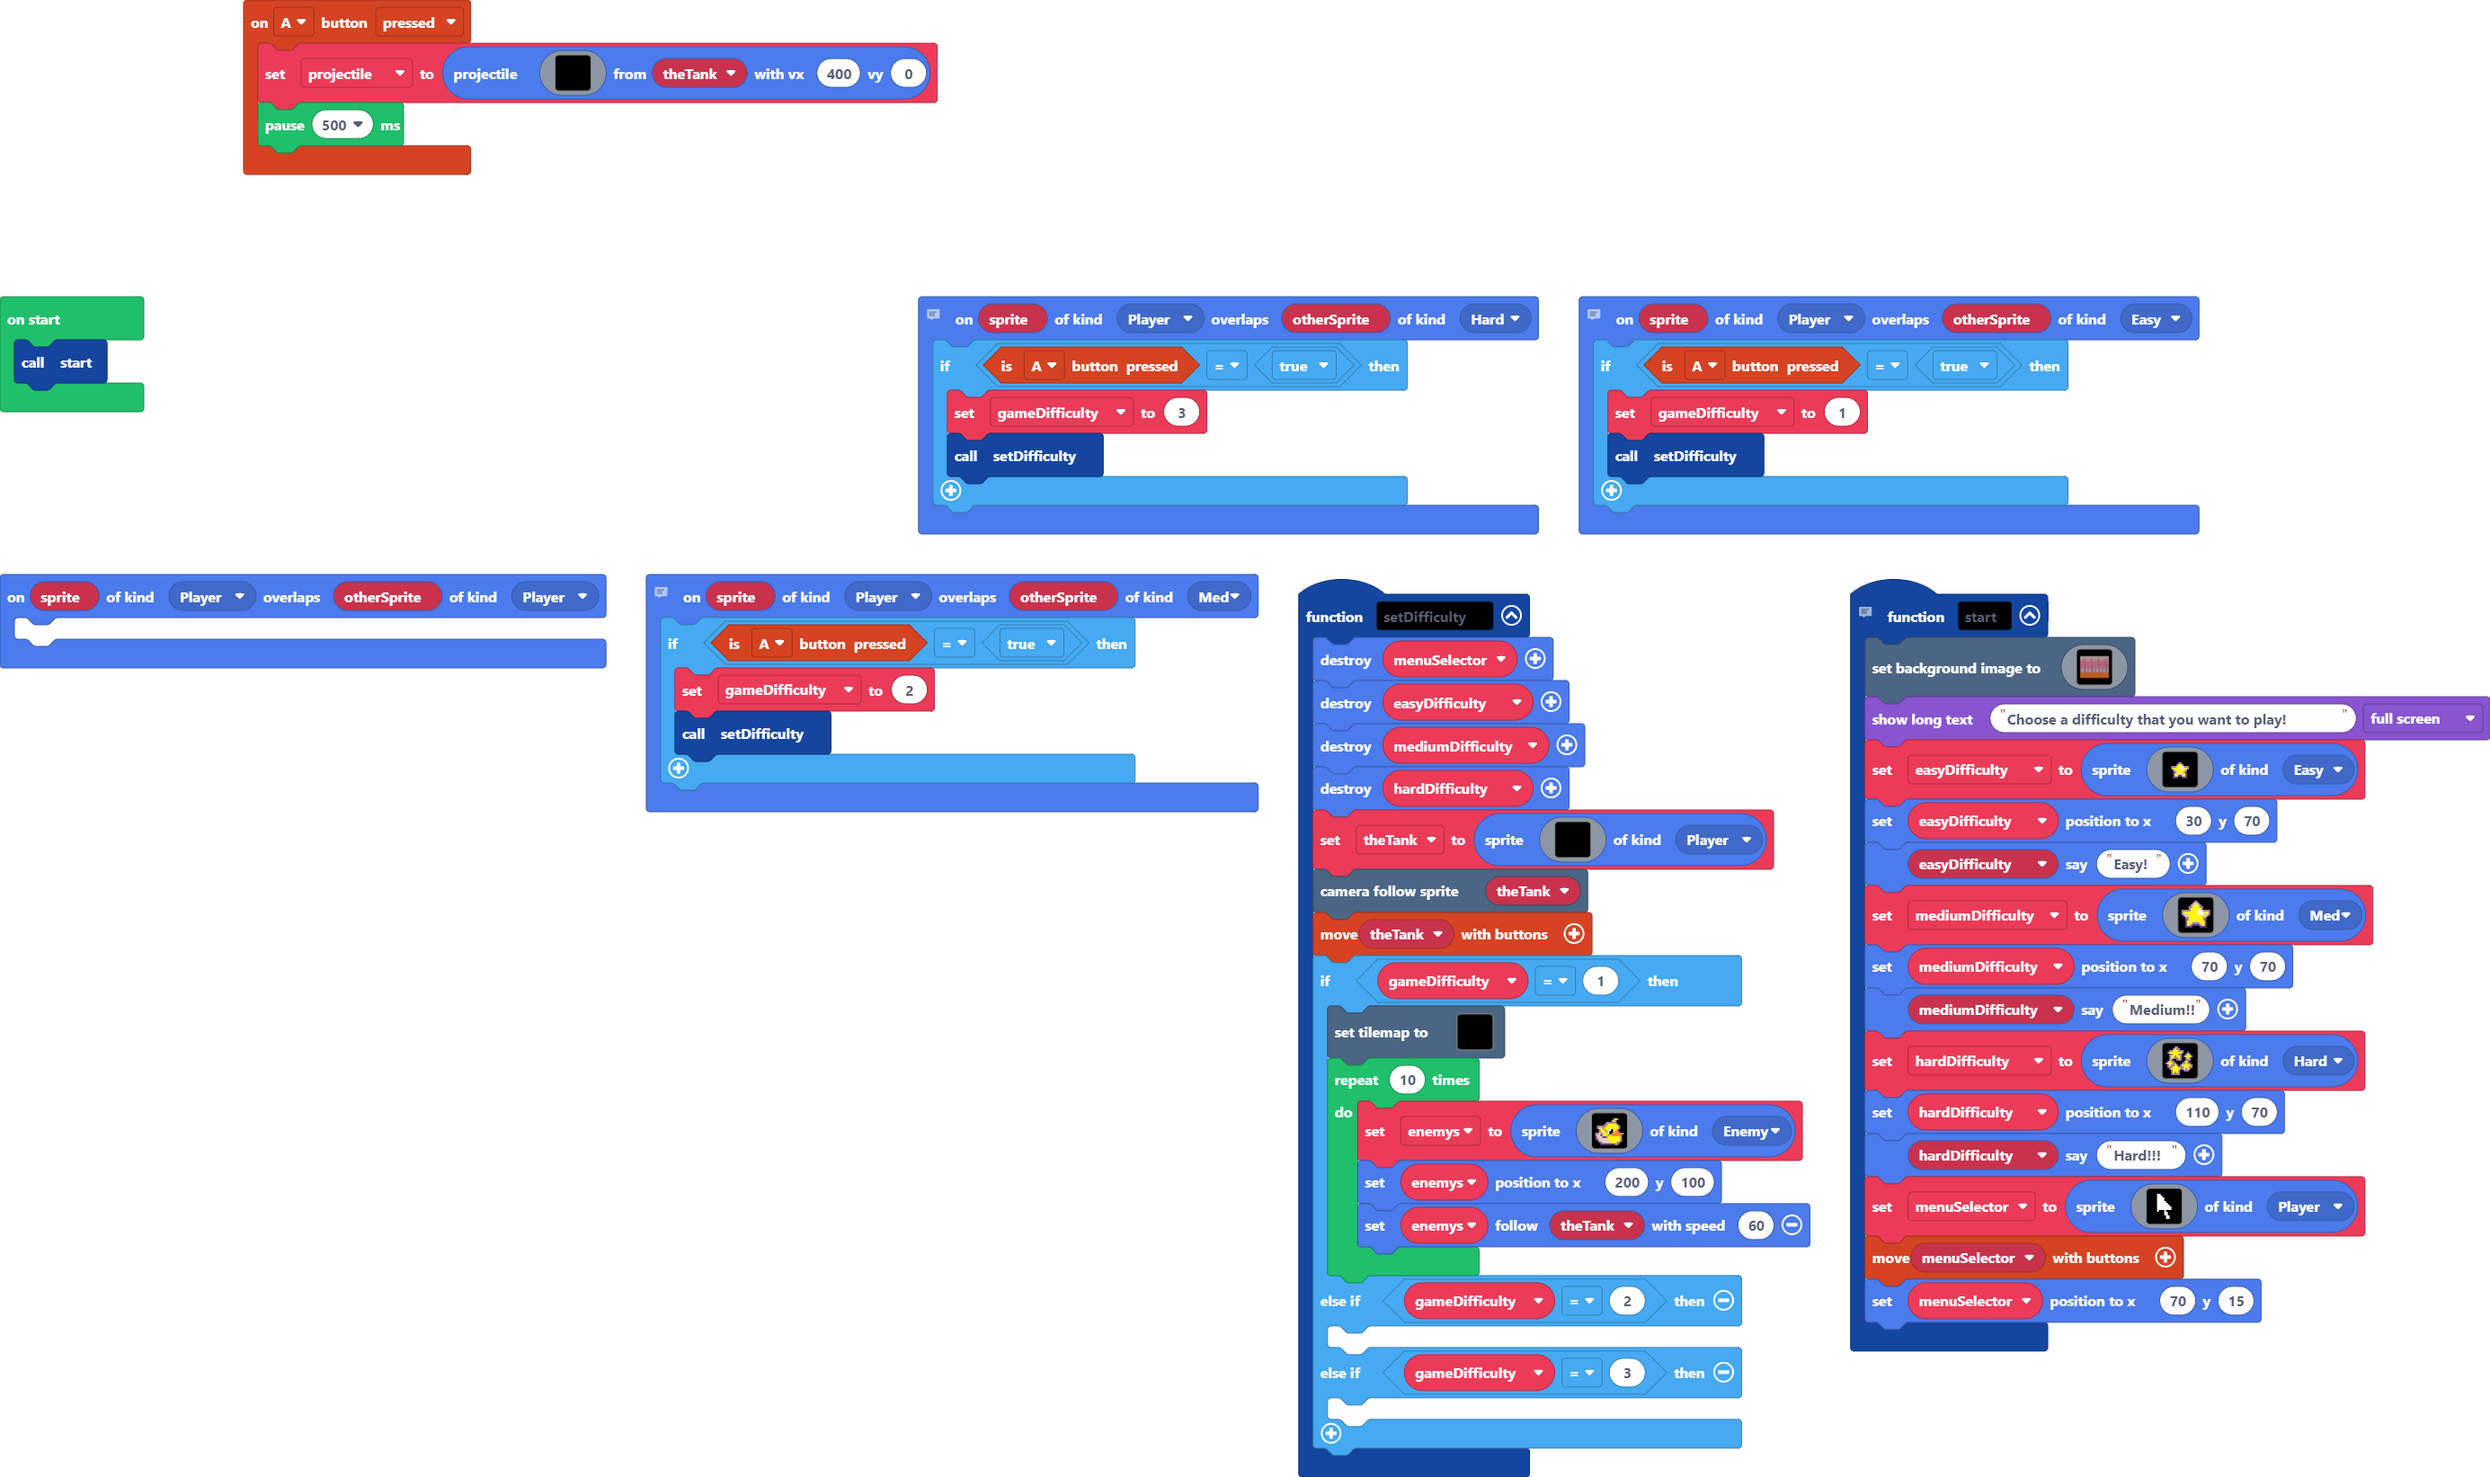
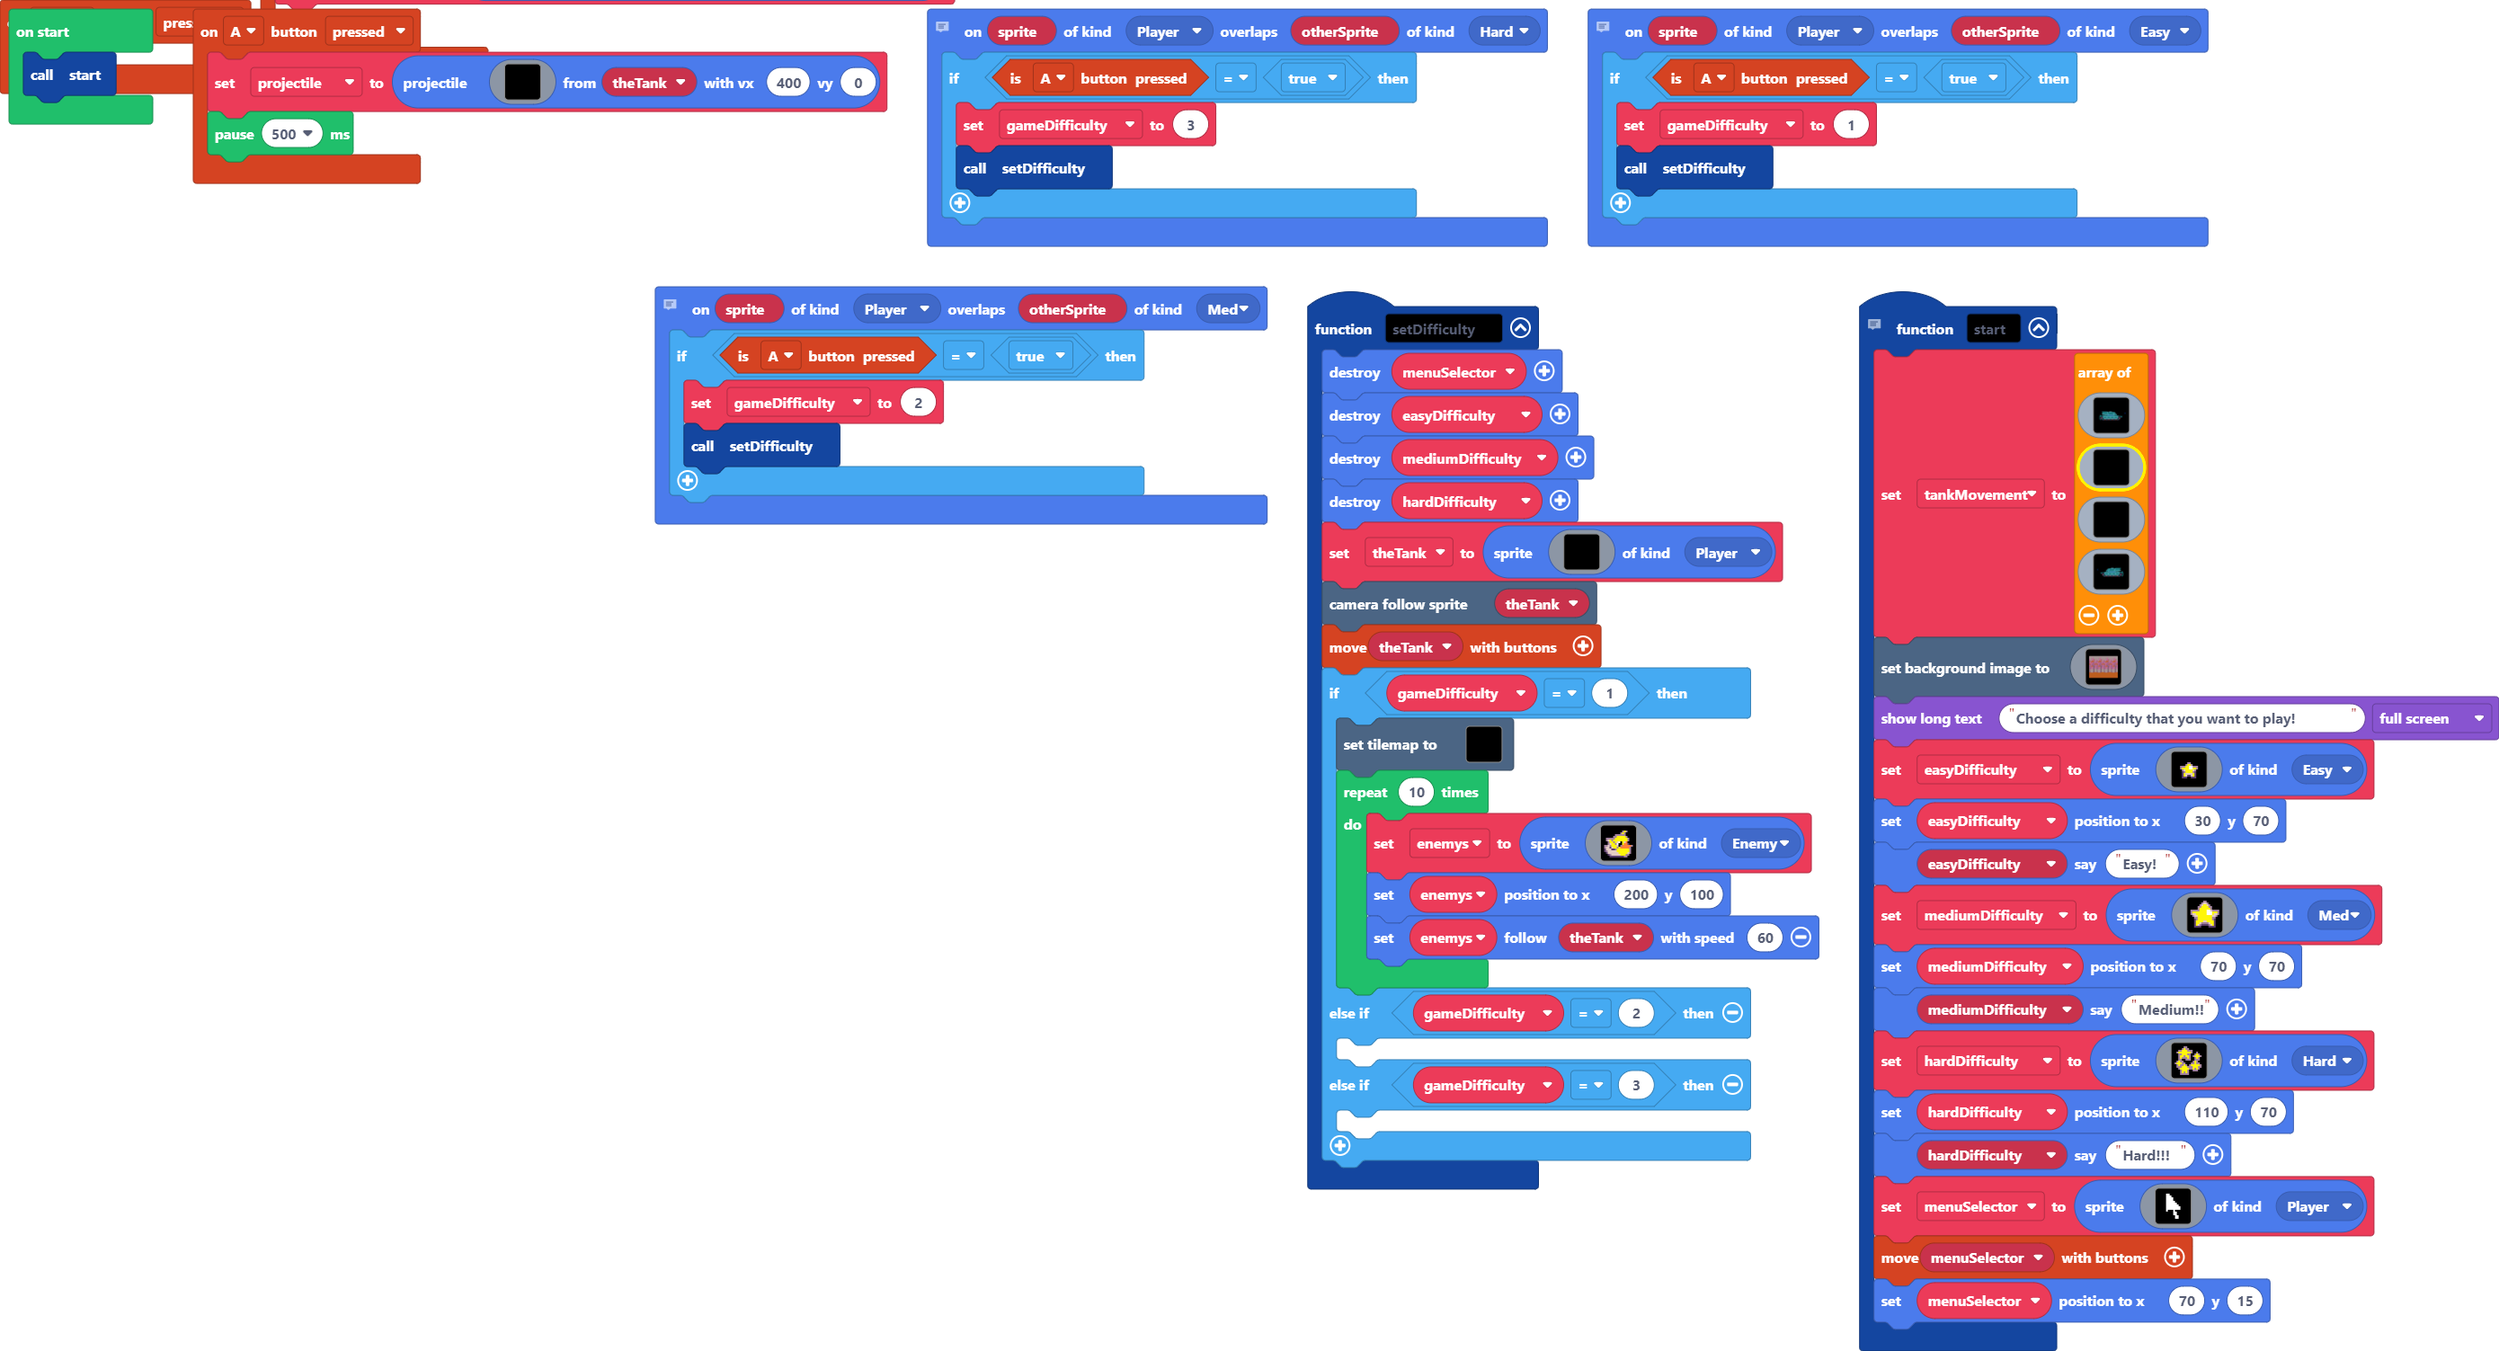
Update main.blocks, main.ts

diff --git a/main.ts b/main.ts
@@ -40,6 +40,9 @@ controller.A.onEvent(ControllerButtonEvent.Pressed, function () {
         `, theTank, 400, 0)
     pause(500)
 })
+controller.left.onEvent(ControllerButtonEvent.Pressed, function () {
+	
+})
 function setDifficulty () {
     menuSelector.destroy()
     easyDifficulty.destroy()
@@ -95,11 +98,114 @@ function setDifficulty () {
     	
     }
 }
-sprites.onOverlap(SpriteKind.Player, SpriteKind.Player, function (sprite, otherSprite) {
-	
-})
 // This function creates the start menu. It adds all of the difficulty choices that a player would be able to interact with to chose the difficulty they want to play. It makes the difficulty's as their own "kind" of category. It also makes the difficulty sprites say which difficulty they are.
 function start () {
+    tankMovement = [
+    img`
+        ................................................................
+        ................................................................
+        ................................................................
+        ................................................................
+        ................................................................
+        ................................................................
+        ................................................................
+        ...............................f................................
+        ...........6666666666666...999999...............................
+        ...........f666666666669666666666666666.........................
+        ...........f6666666666696666666666669669.................ffff.8.
+        ...........f66666666666966666666666696669fffffffffffffffffffff8f
+        ...........f666666666666966666666666696669ffffffffffffffffffff8f
+        ...........99999966666669666666666666966669.....................
+        .................999996669666666666666966669....................
+        .......6ffffff6.......9999999999999999966666....................
+        .......66ffff6666666...88888888888888...........................
+        .......66666666666666666666666666666666666666666................
+        ......66666666999999999999999999999999999999999666666666........
+        ......66ffffff966666669666666696666666966666669ffffff66.........
+        ......6ffacecc966666669666666696666666966666669ccecaff6.........
+        ......6fecacf69666666696666666966666669666666696fcacef..........
+        ......6ffebc6f966666669666666696666666966666669f6cbeff..........
+        ......66febc6ff9999999999999999999999999999999ff6cbef...........
+        .......6ffbc6fff6cbc6fff6cbc6fff6cbc6fff6cbc6fff6cbff...........
+        .......66ffcf666fcecf666fcecf666fcecf666fcecf666fcff............
+        ..........ffccccceeeccccceeeccccceeeccccceeecccccff.............
+        ...........fffffffffffffffffffffffffffffffffffffff..............
+        ................................................................
+        ................................................................
+        ................................................................
+        ................................................................
+        `,
+    img`
+        . . . . . . . . . . . . . . . . 
+        . . . . . . . . . . . . . . . . 
+        . . . . . . . . . . . . . . . . 
+        . . . . . . . . . . . . . . . . 
+        . . . . . . . . . . . . . . . . 
+        . . . . . . . . . . . . . . . . 
+        . . . . . . . . . . . . . . . . 
+        . . . . . . . . . . . . . . . . 
+        . . . . . . . . . . . . . . . . 
+        . . . . . . . . . . . . . . . . 
+        . . . . . . . . . . . . . . . . 
+        . . . . . . . . . . . . . . . . 
+        . . . . . . . . . . . . . . . . 
+        . . . . . . . . . . . . . . . . 
+        . . . . . . . . . . . . . . . . 
+        . . . . . . . . . . . . . . . . 
+        `,
+    img`
+        . . . . . . . . . . . . . . . . 
+        . . . . . . . . . . . . . . . . 
+        . . . . . . . . . . . . . . . . 
+        . . . . . . . . . . . . . . . . 
+        . . . . . . . . . . . . . . . . 
+        . . . . . . . . . . . . . . . . 
+        . . . . . . . . . . . . . . . . 
+        . . . . . . . . . . . . . . . . 
+        . . . . . . . . . . . . . . . . 
+        . . . . . . . . . . . . . . . . 
+        . . . . . . . . . . . . . . . . 
+        . . . . . . . . . . . . . . . . 
+        . . . . . . . . . . . . . . . . 
+        . . . . . . . . . . . . . . . . 
+        . . . . . . . . . . . . . . . . 
+        . . . . . . . . . . . . . . . . 
+        `,
+    img`
+        ................................................................
+        ................................................................
+        ................................................................
+        ................................................................
+        ................................................................
+        ................................................................
+        ................................................................
+        ................................f...............................
+        ...............................999999...6666666666666...........
+        .........................666666666666666966666666666f...........
+        .8.ffff.................9669666666666666966666666666f...........
+        f8fffffffffffffffffffff96669666666666666966666666666f...........
+        f8ffffffffffffffffffff966696666666666669666666666666f...........
+        .....................96666966666666666696666666999999...........
+        ....................966669666666666666966699999.................
+        ....................6666699999999999999999.......6ffffff6.......
+        ...........................88888888888888...6666666ffff66.......
+        ................66666666666666666666666666666666666666666.......
+        ........66666666699999999999999999999999999999999966666666......
+        .........66ffffff966666669666666696666666966666669ffffff66......
+        .........6ffacecc966666669666666696666666966666669ccecaff6......
+        ..........fecacf69666666696666666966666669666666696fcacef6......
+        ..........ffebc6f966666669666666696666666966666669f6cbeff6......
+        ...........febc6ff9999999999999999999999999999999ff6cbef66......
+        ...........ffbc6fff6cbc6fff6cbc6fff6cbc6fff6cbc6fff6cbff6.......
+        ............ffcf666fcecf666fcecf666fcecf666fcecf666fcff66.......
+        .............ffccccceeeccccceeeccccceeeccccceeecccccff..........
+        ..............fffffffffffffffffffffffffffffffffffffff...........
+        ................................................................
+        ................................................................
+        ................................................................
+        ................................................................
+        `
+    ]
     scene.setBackgroundImage(img`
         dddddddddddddddddddddddddddddddddddddddddddddddddddddddddddddddddddddddddddddddddddddddddddddddddddddddddddddddddddddddddddddddddddddddddddddddddddddddddddddddd
         dddddddddddddddddddddddddddddddddddddddddddddddddddddddddddddddddddddddddddddddddddddddddddddddddddddddddddddddddddddddddddddddddddddddddddddddddddddddddddddddd
@@ -311,6 +417,7 @@ sprites.onOverlap(SpriteKind.Player, SpriteKind.Med, function (sprite, otherSpri
         setDifficulty()
     }
 })
+let tankMovement: Image[] = []
 let enemys: Sprite = null
 let hardDifficulty: Sprite = null
 let mediumDifficulty: Sprite = null
